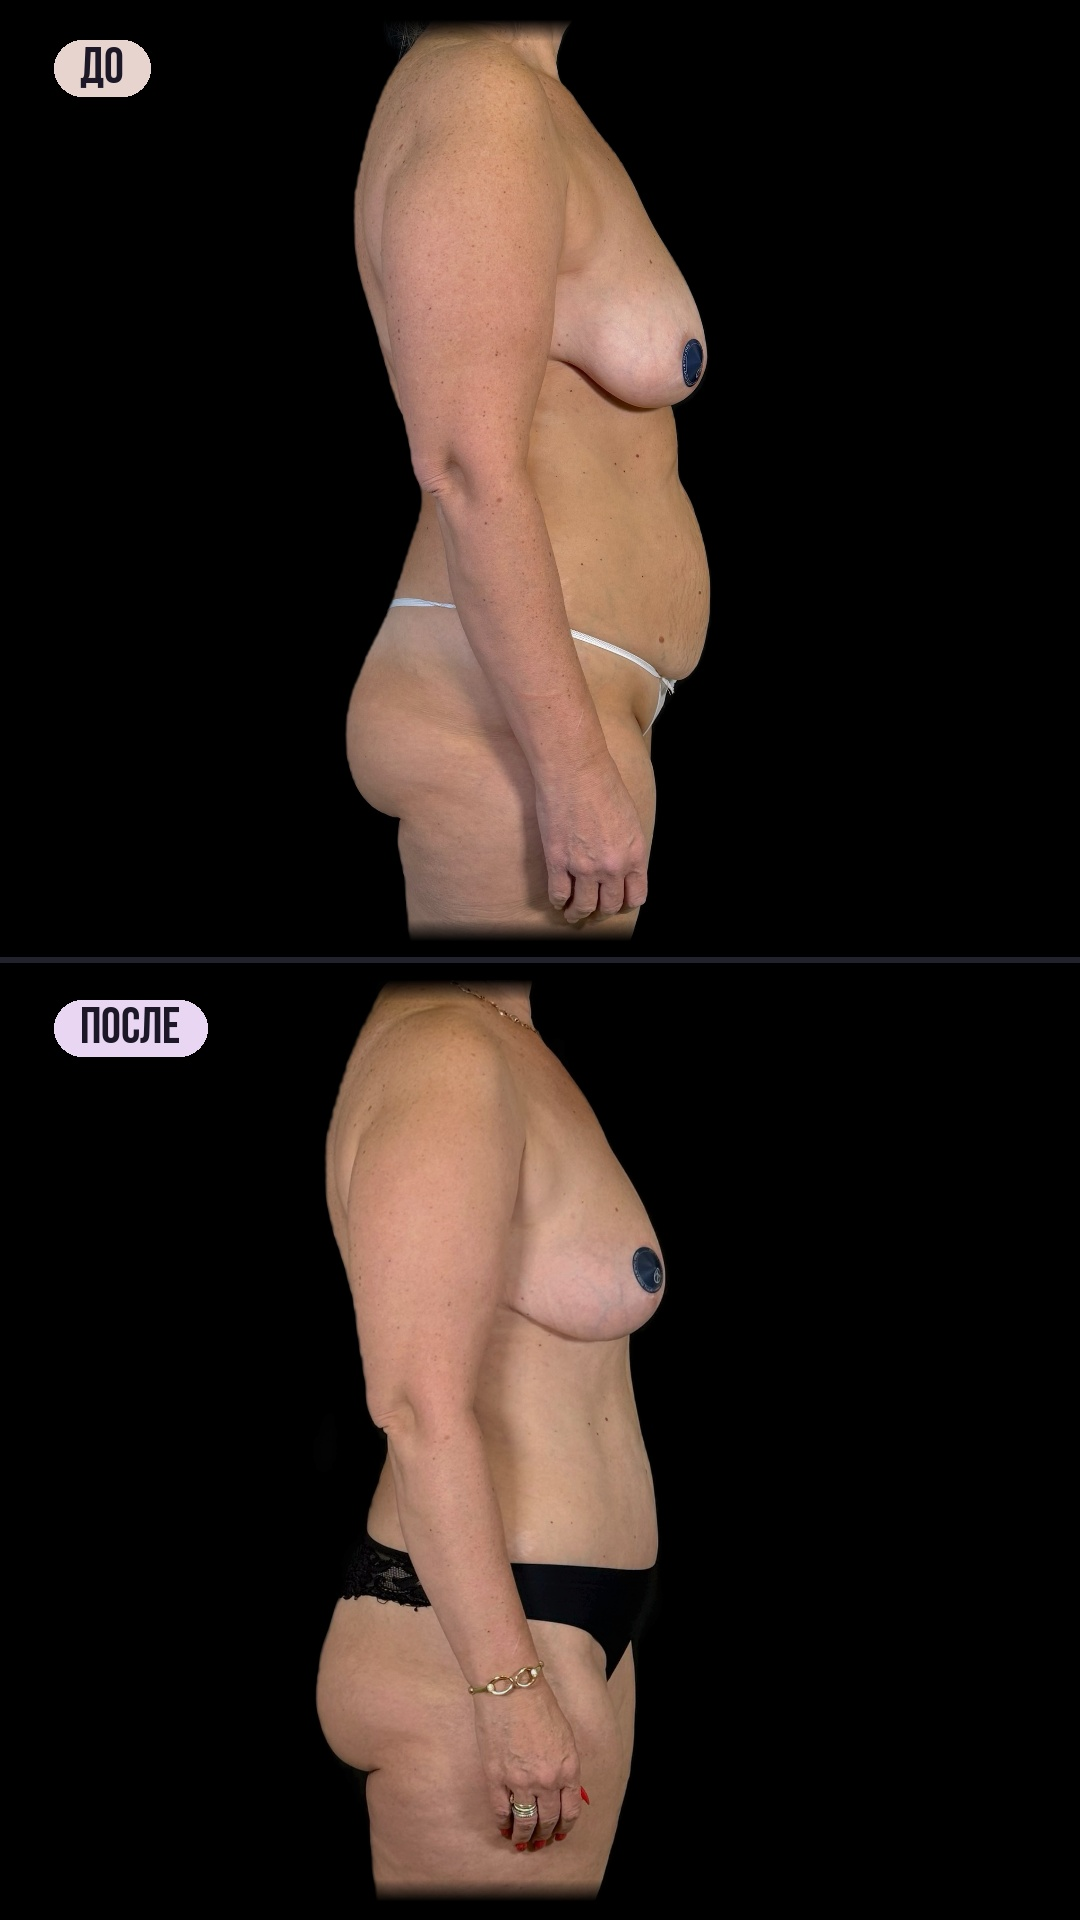
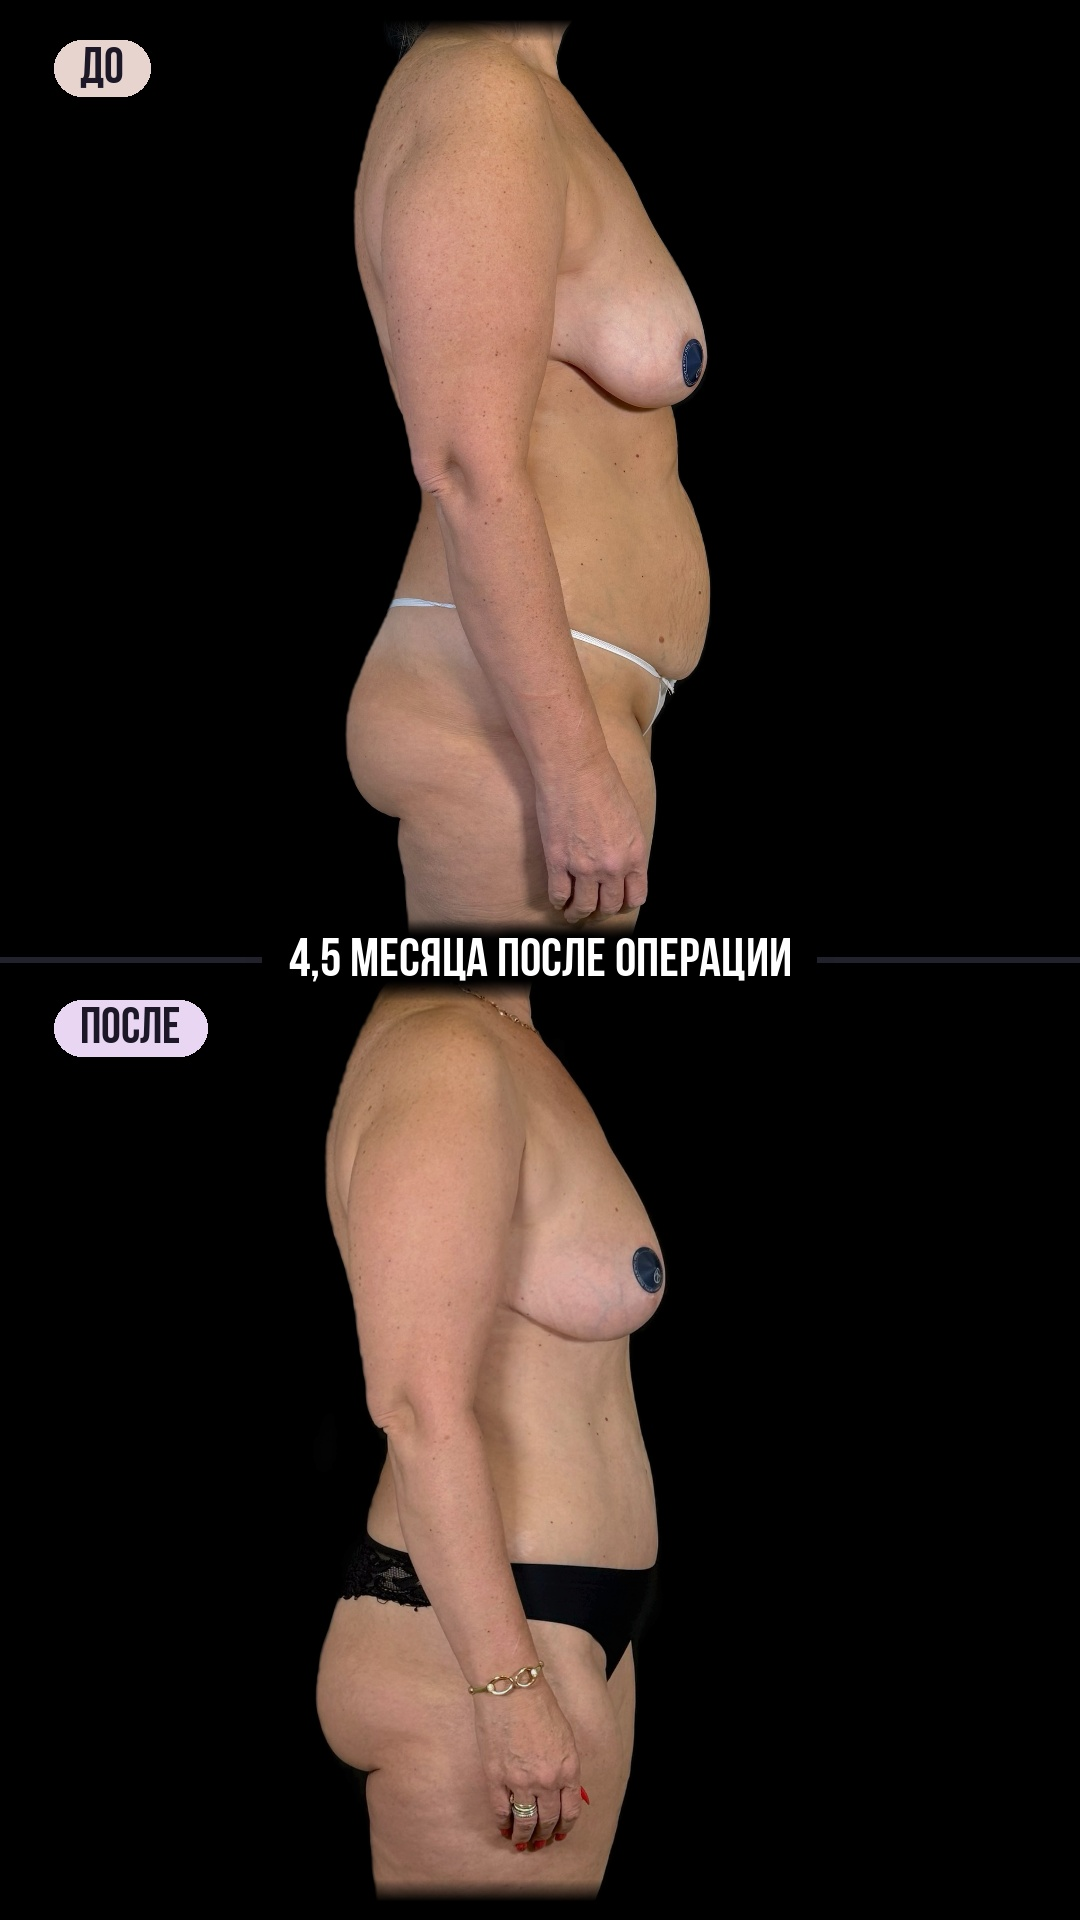
Body collages: '4,5 месяца после операции' caption on the seam
Claude-Session: https://claude.ai/code/session_01WwhZiMgoJM3MQocuuEgczm

Changed region(s): [[0.275, 0.4688, 0.7333, 0.5312]]

diff --git a/tools/collage_body_do_po.py b/tools/collage_body_do_po.py
@@ -45,4 +45,12 @@ for ang in ("f", "q", "s"):
     fr[HALF - 3:HALF + 3] = (34, 34, 44)                                              # thin dark divider instead of the white line
     im = Image.fromarray(np.clip(fr, 0, 255).astype(np.uint8)); d = ImageDraw.Draw(im)
     pill(d, 54, 40, "ДО", (232, 212, 206)); pill(d, 54, HALF + 40, "ПОСЛЕ", (233, 214, 242))
+    cap = "4,5 МЕСЯЦА ПОСЛЕ ОПЕРАЦИИ"; f = osw(54); tw = f.getlength(cap)                # caption on the seam
+    arr = np.asarray(im).astype(np.float32)
+    lay = Image.new("L", (W, H), 0); ImageDraw.Draw(lay).text((W / 2, HALF + 2), cap, font=f, fill=255, anchor="mm")
+    t = np.asarray(lay).astype(np.float32) / 255
+    sh = np.clip(cv2.GaussianBlur(cv2.dilate(t, np.ones((9, 9), np.uint8)), (0, 0), 10) * 1.6, 0, 1)[..., None]   # soft dark glow, no hard box
+    band = np.zeros((H, W), np.float32); band[HALF - 3:HALF + 3, int(W / 2 - tw / 2 - 26):int(W / 2 + tw / 2 + 26)] = 1   # gap in the divider
+    arr = arr * (1 - sh) ; arr[band > 0] = 0; arr = arr * (1 - t[..., None]) + 255 * t[..., None]
+    im = Image.fromarray(np.clip(arr, 0, 255).astype(np.uint8))
     im.save(f"collage_{ang}.jpg", quality=95)
